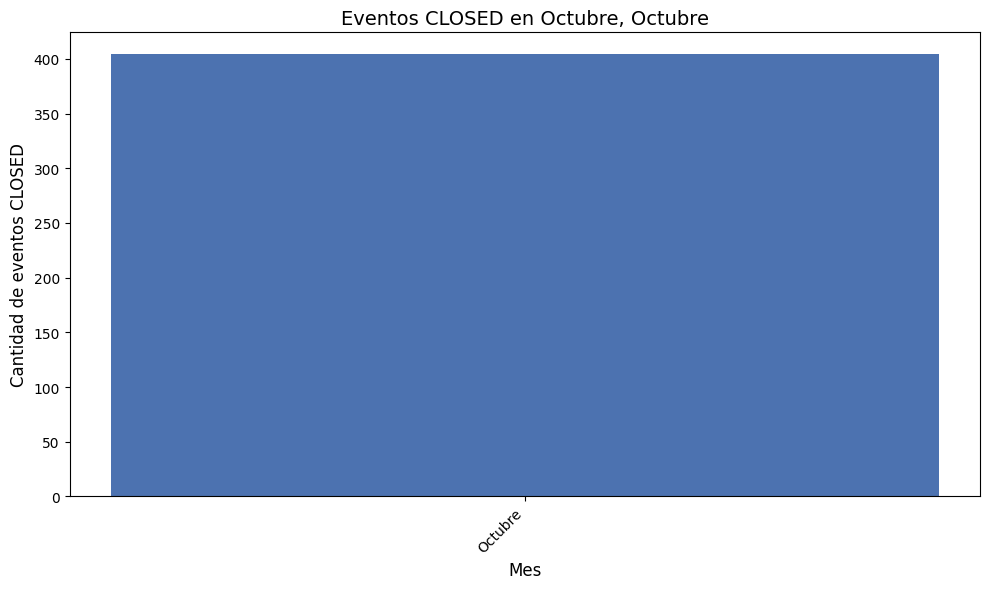
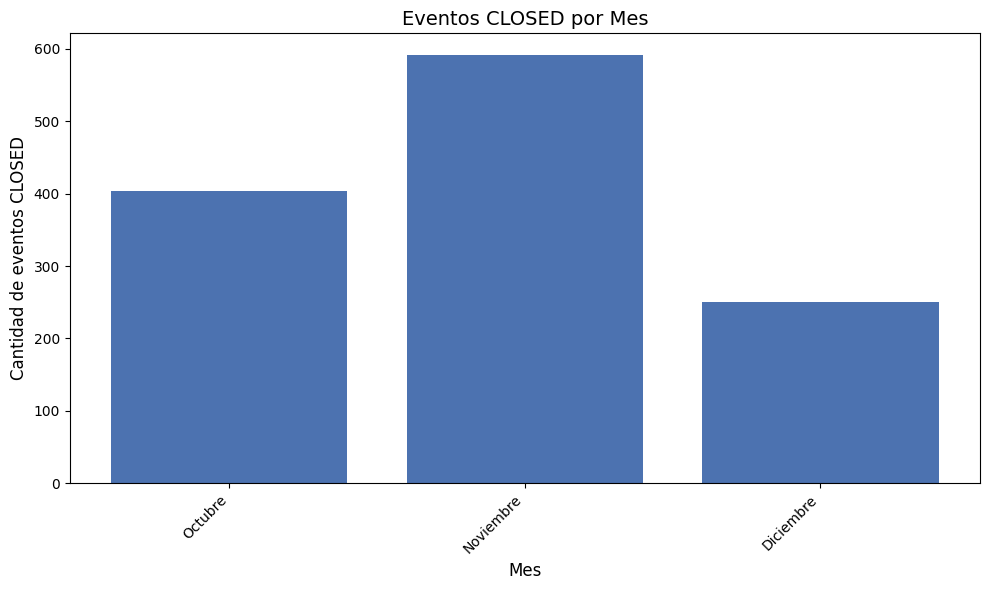
Cambio de modelo ollama

diff --git a/agent.py b/agent.py
@@ -1,4 +1,4 @@
-# coding: utf-8
+# -*- coding: utf-8 -*-
 from langchain_community.llms import Ollama
 from typing import Dict, Any, List, Optional
 import json
@@ -8,14 +8,13 @@ class IntelligentExcelAgent:
     
     def __init__(self, tools_dict: Dict):
         self.llm = Ollama(
-            model="llama3", 
-            temperature=0,
+            model="llama3.2:1b", 
+            temperature=0.3,  # Un poco de creatividad para respuestas naturales
             base_url="http://localhost:11434",
-            timeout=15  # Timeout de 15 segundos
+            timeout=60
         )
         self.tools_dict = tools_dict
         self.conversation_history = []
-        self.use_llm = True  # Flag para activar/desactivar LLM
         
     def _extract_month_numbers(self, question: str) -> Optional[List[int]]:
         month_map = {
@@ -54,17 +53,68 @@ class IntelligentExcelAgent:
         
         return severities if severities else None
     
+    def _generate_natural_response(self, question: str, data: Dict, tool_name: str) -> str:
+        """
+        Genera una respuesta natural usando el LLM basandose en los datos obtenidos.
+        """
+        if not data:
+            return "No se encontraron datos para tu consulta."
+        
+        # Preparar contexto para el LLM
+        data_summary = ", ".join([f"{k}: {v}" for k, v in data.items()])
+        total = sum(data.values())
+        
+        # Prompt optimizado para respuestas rapidas y naturales
+        prompt = f"""Eres un asistente de analisis de datos. Responde de forma breve, natural y profesional.
+
+Pregunta del usuario: {question}
+
+Datos obtenidos:
+- Total: {total}
+- Detalle: {data_summary}
+
+Genera una respuesta concisa (maximo 2-3 oraciones) que:
+1. Responda directamente la pregunta
+2. Mencione el total
+3. Destaque los datos mas relevantes
+
+Respuesta:"""
+
+        try:
+            # Generar respuesta con el LLM
+            response = self.llm.invoke(prompt)
+            # Limpiar la respuesta
+            response = response.strip()
+            
+            # Si la respuesta es muy larga, truncar
+            if len(response) > 300:
+                sentences = response.split('.')
+                response = '. '.join(sentences[:2]) + '.'
+            
+            return response
+            
+        except Exception as e:
+            print(f"[ERROR] LLM fallo, usando respuesta de respaldo: {str(e)}")
+            # Respuesta de respaldo si el LLM falla
+            return self._fallback_response(data, total)
+    
+    def _fallback_response(self, data: Dict, total: int) -> str:
+        """Respuesta de respaldo si el LLM falla"""
+        details = ", ".join([f"{v} en {k}" for k, v in list(data.items())[:5]])
+        if len(data) > 5:
+            details += f" (y {len(data)-5} mas)"
+        return f"He generado el grafico. Total: {total}. Detalle: {details}."
+    
     def invoke(self, inputs: Dict[str, str]) -> Dict[str, Any]:
         question = inputs.get("input", "")
         q_lower = question.lower()
         
-        # Usar logica basada en keywords (MAS RAPIDO)
         print(f"[DEBUG] Procesando: {question}")
         
         # Detectar tipo de grafico
         chart_type = self._detect_chart_type(question)
         
-        # Detectar herramienta por keywords
+        # Detectar herramienta por keywords (esto es rapido)
         tool_name = None
         params = {}
         
@@ -120,22 +170,18 @@ class IntelligentExcelAgent:
         try:
             result_msg, data = tool.func(question, **kwargs)
             
-            # Generar respuesta simple
-            if data:
-                total = sum(data.values())
-                details = ", ".join([f"{v} en {k}" for k, v in list(data.items())[:5]])  # Max 5 items
-                if len(data) > 5:
-                    details += f" (y {len(data)-5} mas)"
-                response = f"He generado el grafico. Total: {total}. Detalle: {details}."
-            else:
-                response = result_msg
+            # Generar respuesta natural con el LLM
+            print("[DEBUG] Generando respuesta con LLM...")
+            response = self._generate_natural_response(question, data, tool_name)
+            print(f"[DEBUG] Respuesta generada: {response[:100]}...")
             
             # Guardar en historial
             self.conversation_history.append({
                 "question": question,
                 "tool": tool_name,
                 "params": params,
-                "data": data
+                "data": data,
+                "response": response
             })
             
             return {
